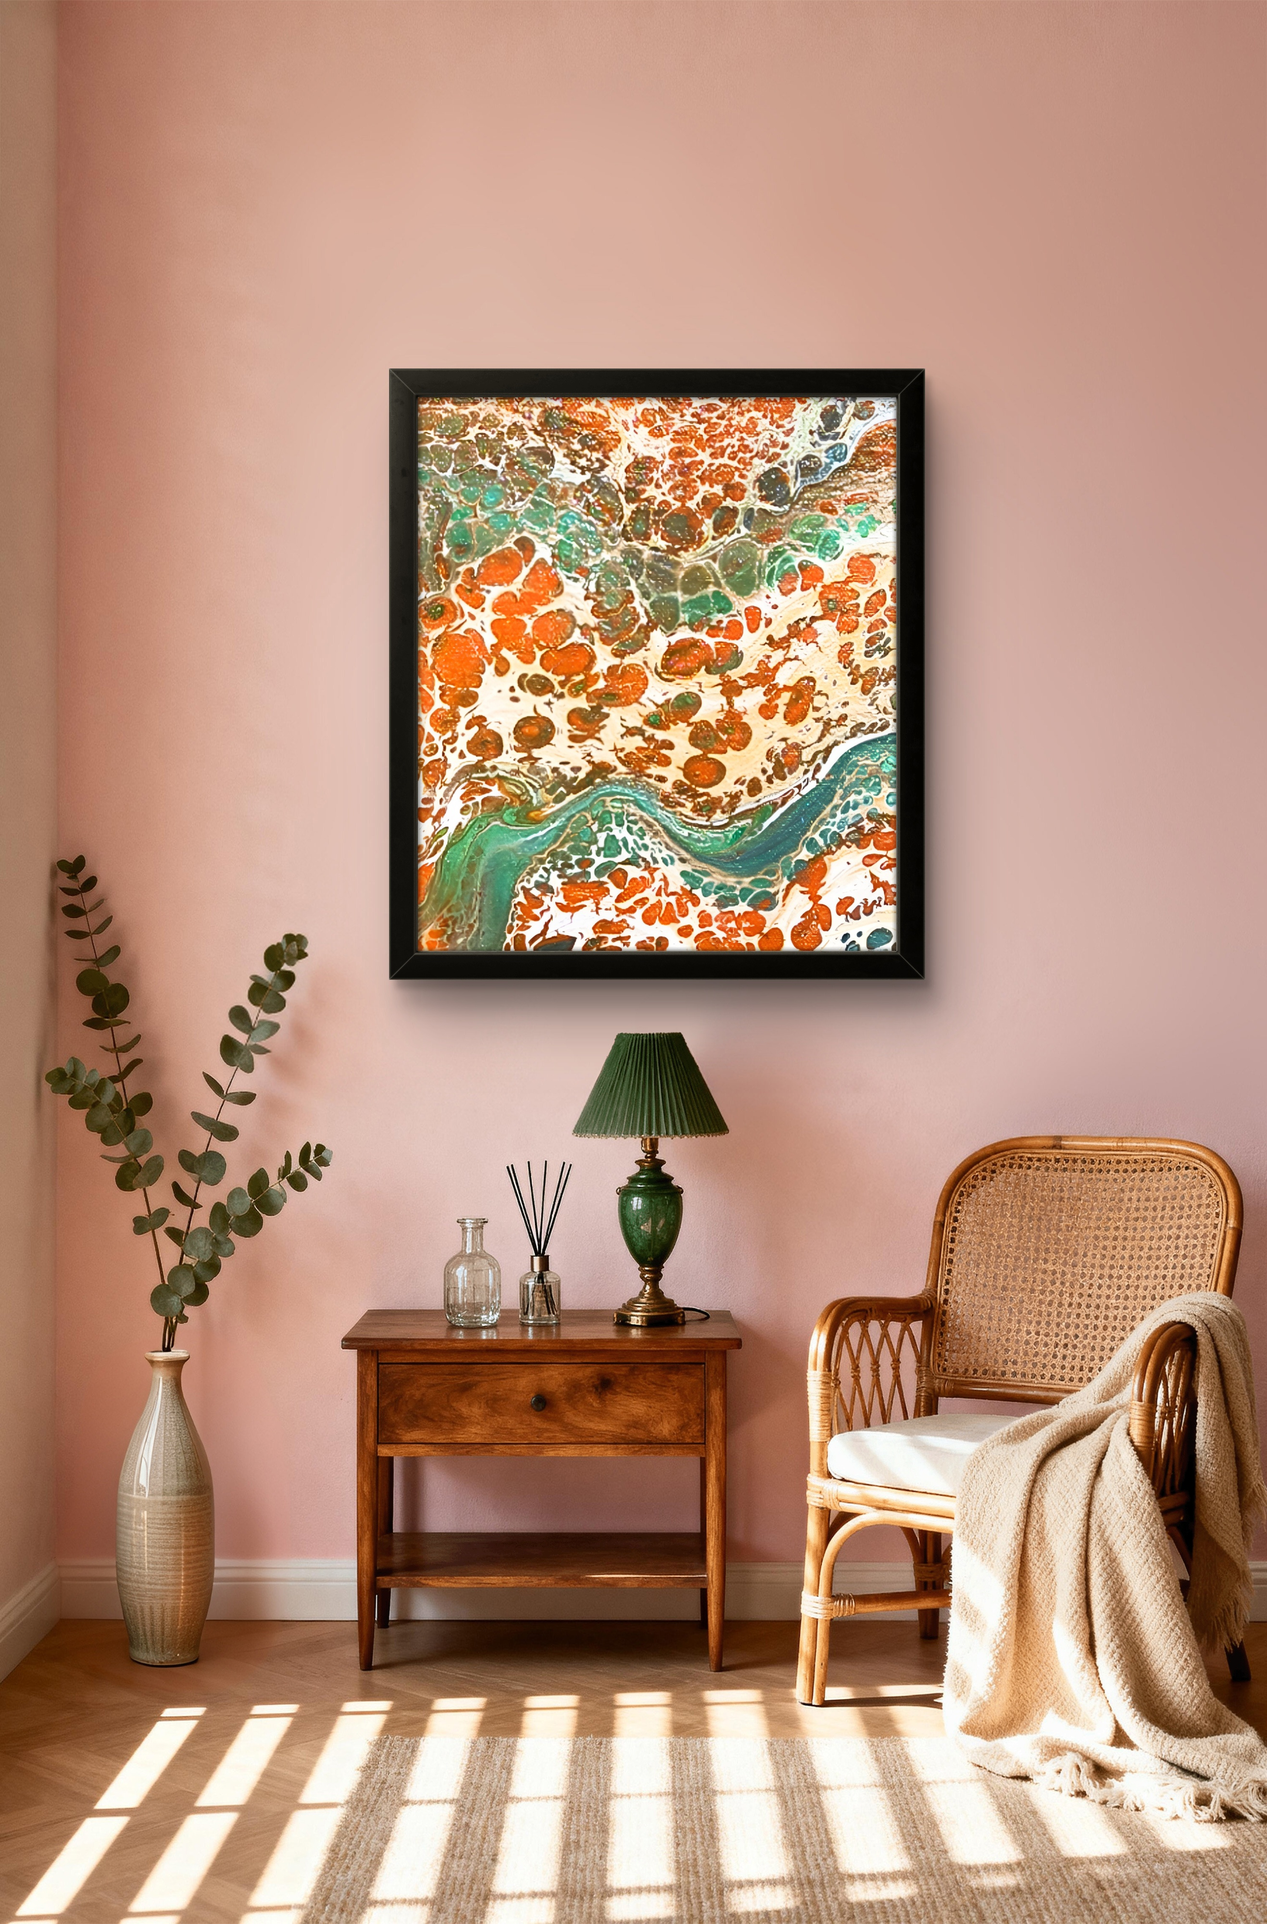
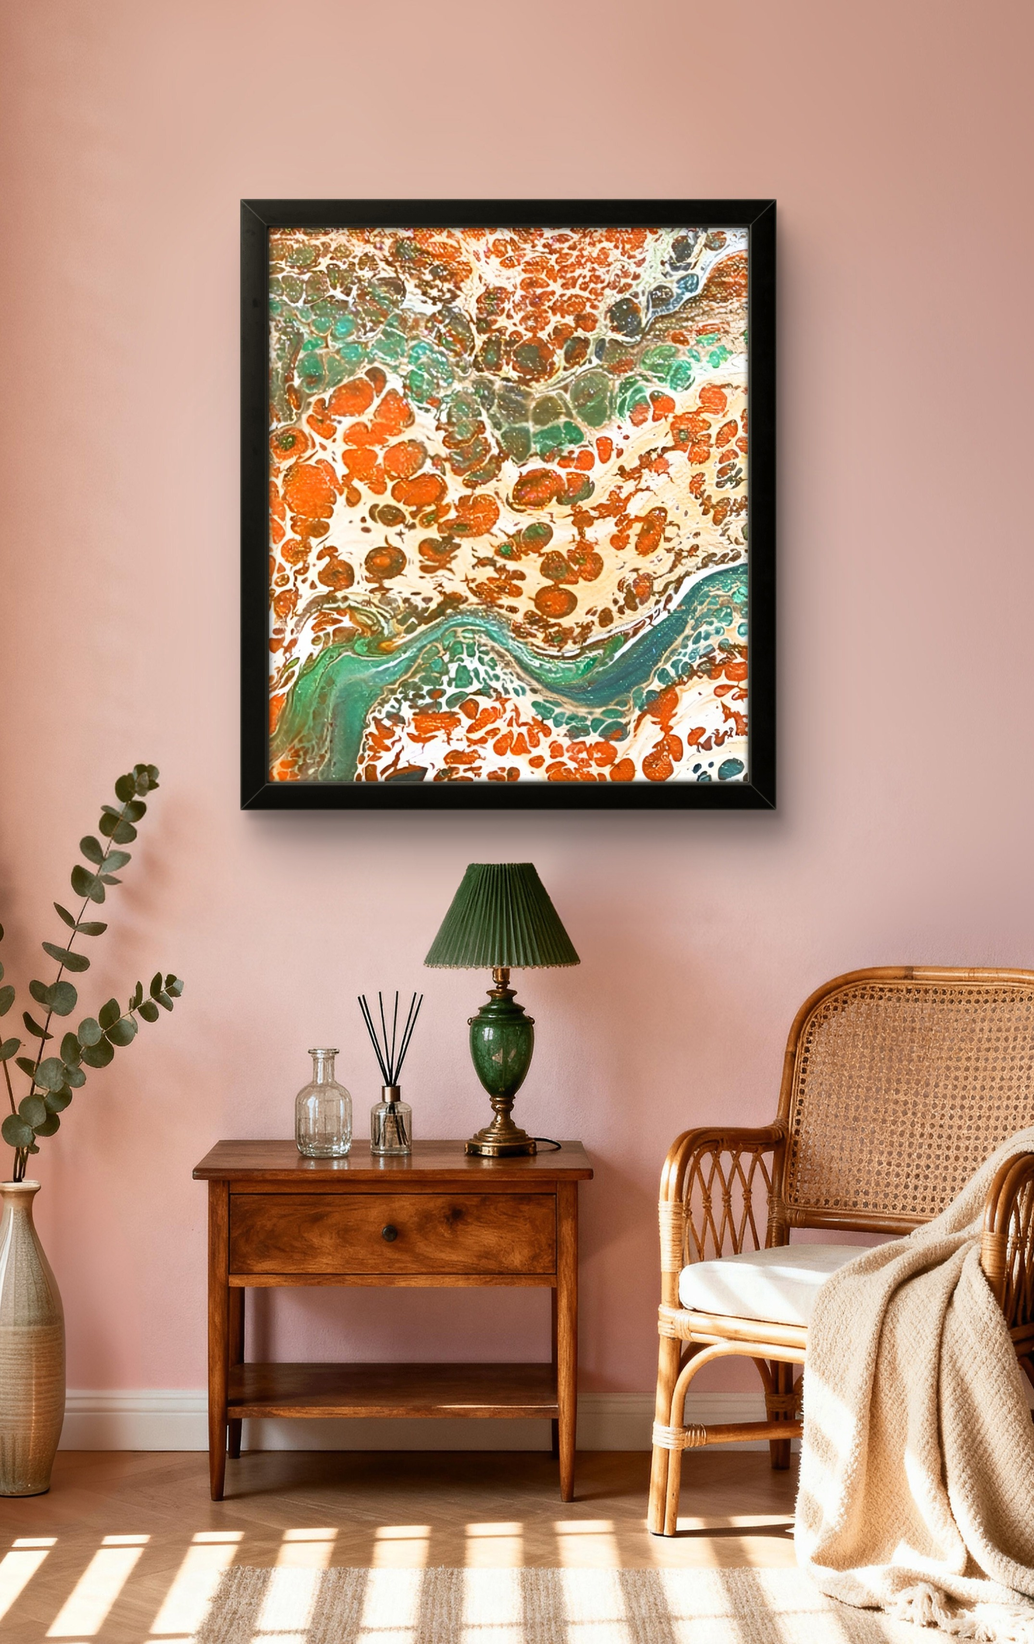
Update gallery and home mockup layouts and assets

diff --git a/gallery.html b/gallery.html
@@ -51,7 +51,7 @@
             Six curated collections of professional acrylic pour paintings, each exploring unique themes and techniques.
           </p>
           <p class="mt-1 text-sm text-white/50">
-            Click any artwork to view the mockup beside the original.
+            Click any mockup to view the original artwork.
           </p>
           <div class="mt-6">
             <a
@@ -70,19 +70,24 @@
           <!-- Signature Piece -->
           <article class="overflow-hidden rounded-2xl border border-white/10 bg-white/5">
             <div class="aspect-[3/4] w-full bg-white/5">
-              <img src="30 portfolio/Molecular Flux/Crimson Current.jpg?v=20260217" alt="Crimson Current - pour painting by Chris Broussard" class="h-full w-full object-contain lightbox cursor-pointer" data-mock="30 portfolio/mockup images/crimson current 2.jpg" style="transform: scaleX(-1) scaleY(-1) scale(0.85);" loading="lazy" />
+              <img src="30 portfolio/Molecular Flux/Crimson Current.jpg?v=20260217" alt="Crimson Current - pour painting by Chris Broussard" class="h-full w-full object-contain lightbox cursor-pointer" data-mock="30 portfolio/mockup images/crimson current 2.jpg" loading="lazy" />
             </div>
             <div class="p-4">
               <div class="text-xs font-semibold tracking-wide text-white/50">SIGNATURE PIECE</div>
               <h3 class="mt-2 text-lg font-semibold tracking-tight text-white">Crimson Current</h3>
-              <p class="mt-1 text-sm text-white/70">18"x24" • 24"x36"</p>
+              <p class="mt-1 text-sm text-white/70">customizable size</p>
             </div>
           </article>
 
           <!-- Mock Up Display -->
           <article class="lg:col-span-2 overflow-hidden rounded-2xl border border-white/10 bg-white/5">
             <div class="aspect-[4/3] w-full bg-white/5">
-              <img src="30 portfolio/mockup images/crimson current 2.jpg" alt="Gallery mockup display" class="h-full w-full object-contain lightbox cursor-pointer" loading="lazy" />
+              <img src="30 portfolio/mockup images/Amber Flow.jpg?v=20260303" alt="Amber Flow mockup display" class="h-full w-full object-contain lightbox cursor-pointer" loading="lazy" />
+            </div>
+            <div class="p-4 text-center">
+              <div class="text-xs font-semibold tracking-wide text-white/50">SIGNATURE PIECE</div>
+              <h3 class="mt-2 text-lg font-semibold tracking-tight text-white">Amber Flow</h3>
+              <p class="mt-1 text-sm text-white/70">customizable size</p>
             </div>
           </article>
         </div>
@@ -101,10 +106,10 @@
           </div>
         </div>
 
-        <div class="mt-6 grid grid-cols-1 gap-4 sm:grid-cols-2 lg:grid-cols-4">
+        <div class="mt-6 grid grid-cols-1 gap-4 sm:grid-cols-2 lg:grid-cols-3">
           <figure class="overflow-hidden rounded-2xl border border-white/10 bg-white/5">
             <div class="aspect-[4/3] w-full bg-white/5">
-              <img src="30 portfolio/Aqueous Vibrations/Abyssal Dawn.jpg?v=20260217" alt="Abyssal Dawn - pour painting by Chris Broussard" class="h-full w-full object-contain lightbox cursor-pointer" data-mock="30 portfolio/mockup images/Abyssal Dawn2.jpg" loading="lazy" />
+              <img src="30 portfolio/Aqueous Vibrations/Abyssal Dawn.jpg?v=20260217" alt="Abyssal Dawn - pour painting by Chris Broussard" class="h-full w-full object-contain lightbox cursor-pointer" data-mock="30 portfolio/mockup images/Abyssal Dawn.jpg" loading="lazy" />
             </div>
             <figcaption class="p-3">
               <h3 class="text-sm font-semibold text-white">Abyssal Dawn</h3>
@@ -155,7 +160,7 @@
           </p>
         </div>
 
-        <div class="mt-6 grid grid-cols-1 gap-4 sm:grid-cols-2 lg:grid-cols-4">
+        <div class="mt-6 grid grid-cols-1 gap-4 sm:grid-cols-2 lg:grid-cols-3">
           <figure class="overflow-hidden rounded-2xl border border-white/10 bg-white/5">
             <div class="aspect-[4/3] w-full bg-white/5">
               <img src="30 portfolio/Chromatose/Azure Ember.JPG?v=20260217" alt="Azure Ember - pour painting by Chris Broussard" class="h-full w-full object-contain lightbox cursor-pointer" data-mock="30 portfolio/mockup images/azure ember 2.jpg" loading="lazy" />
@@ -188,7 +193,7 @@
 
           <figure class="overflow-hidden rounded-2xl border border-white/10 bg-white/5">
             <div class="aspect-[4/3] w-full bg-white/5">
-              <img src="30 portfolio/Chromatose/Magenta Monsoon.JPG?v=20260217" alt="Magenta Monsoon - pour painting by Chris Broussard" class="h-full w-full object-contain lightbox cursor-pointer" data-mock="30 portfolio/mockup images/Magenta Monsoon 2.jpg" loading="lazy" />
+              <img src="30 portfolio/Chromatose/Magenta Monsoon.JPG?v=20260217" alt="Magenta Monsoon - pour painting by Chris Broussard" class="h-full w-full object-contain lightbox cursor-pointer zoomout-target" data-mock="30 portfolio/mockup images/Magenta Monsoon 2.jpg" loading="lazy" />
             </div>
             <figcaption class="p-3">
               <h3 class="text-sm font-semibold text-white">Magenta Monsoon</h3>
@@ -209,10 +214,10 @@
           </p>
         </div>
 
-        <div class="mt-6 grid grid-cols-1 gap-4 sm:grid-cols-2 lg:grid-cols-4">
+        <div class="mt-6 grid grid-cols-1 gap-4 sm:grid-cols-2 lg:grid-cols-3">
           <figure class="overflow-hidden rounded-2xl border border-white/10 bg-white/5">
             <div class="aspect-[4/3] w-full bg-white/5">
-              <img src="30 portfolio/Molecular Flux/Amethyst Abyss.JPG?v=20260217" alt="Amethyst Abyss - pour painting by Chris Broussard" class="h-full w-full object-contain lightbox cursor-pointer" data-mock="30 portfolio/mockup images/amethyst abyss 2 (2).jpg" loading="lazy" />
+              <img src="30 portfolio/Molecular Flux/Amethyst Abyss.JPG?v=20260217" alt="Amethyst Abyss - pour painting by Chris Broussard" class="h-full w-full object-contain lightbox cursor-pointer zoomout-target" data-mock="30 portfolio/mockup images/amethyst abyss 2 (2).jpg" loading="lazy" />
             </div>
             <figcaption class="p-3">
               <h3 class="text-sm font-semibold text-white">Amethyst Abyss</h3>
@@ -222,7 +227,7 @@
 
           <figure class="overflow-hidden rounded-2xl border border-white/10 bg-white/5">
             <div class="aspect-[4/3] w-full bg-white/5">
-              <img src="30 portfolio/Molecular Flux/Terracotta Tide.jpg" alt="Terracotta Tides - pour painting by Chris Broussard" class="h-full w-full object-contain lightbox cursor-pointer" data-mock="30 portfolio/mockup images/Terracotta Tide.jpg" loading="lazy" />
+              <img src="30 portfolio/Molecular Flux/Terracotta Tide.jpg" alt="Terracotta Tides - pour painting by Chris Broussard" class="h-full w-full object-contain lightbox cursor-pointer zoomout-target" data-mock="30 portfolio/mockup images/Terracotta Tide.jpg" loading="lazy" />
             </div>
             <figcaption class="p-3">
               <h3 class="text-sm font-semibold text-white">Terracotta Tides</h3>
@@ -232,7 +237,7 @@
 
           <figure class="overflow-hidden rounded-2xl border border-white/10 bg-white/5">
             <div class="aspect-[4/3] w-full bg-white/5">
-              <img src="30 portfolio/Molecular Flux/Leviathans Armor.JPG?v=20260217" alt="Leviathan's Armor - pour painting by Chris Broussard" class="h-full w-full object-contain lightbox cursor-pointer" data-mock="30 portfolio/mockup images/Leviathans armor 2.jpg" loading="lazy" />
+              <img src="30 portfolio/Molecular Flux/Leviathans Armor.JPG?v=20260217" alt="Leviathan's Armor - pour painting by Chris Broussard" class="h-full w-full object-contain lightbox cursor-pointer zoomout-target" data-mock="30 portfolio/mockup images/Leviathans armor 2.jpg" loading="lazy" />
             </div>
             <figcaption class="p-3">
               <h3 class="text-sm font-semibold text-white">Leviathan's Armor</h3>
@@ -242,7 +247,7 @@
 
           <figure class="overflow-hidden rounded-2xl border border-white/10 bg-white/5">
             <div class="aspect-[4/3] w-full bg-white/5">
-              <img src="30 portfolio/Molecular Flux/Crimson Current.jpg?v=20260217" alt="Crimson Current - pour painting by Chris Broussard" class="h-full w-full object-contain lightbox cursor-pointer" data-mock="30 portfolio/mockup images/crimson current 2.jpg" loading="lazy" />
+              <img src="30 portfolio/Molecular Flux/Crimson Current.jpg?v=20260217" alt="Crimson Current - pour painting by Chris Broussard" class="h-full w-full object-contain lightbox cursor-pointer zoomout-target" data-mock="30 portfolio/mockup images/crimson current 2.jpg" loading="lazy" />
             </div>
             <figcaption class="p-3">
               <h3 class="text-sm font-semibold text-white">Crimson Current</h3>
@@ -263,10 +268,10 @@
           </p>
         </div>
 
-        <div class="mt-6 grid grid-cols-1 gap-4 sm:grid-cols-2 lg:grid-cols-4">
+        <div class="mt-6 grid grid-cols-1 gap-4 sm:grid-cols-2 lg:grid-cols-3">
           <figure class="overflow-hidden rounded-2xl border border-white/10 bg-white/5">
             <div class="aspect-[4/3] w-full bg-white/5">
-              <img src="30 portfolio/Chromatose/Magma Monsoon.JPG?v=20260302" alt="Magma Monsoon - pour painting by Chris Broussard" class="h-full w-full object-contain lightbox cursor-pointer" data-mock="30 portfolio/mockup images/Magma Monsoon.jpg" loading="lazy" />
+              <img src="30 portfolio/Chromatose/Magma Monsoon.JPG?v=20260302" alt="Magma Monsoon - pour painting by Chris Broussard" class="h-full w-full object-contain lightbox cursor-pointer zoomout-target" data-mock="30 portfolio/mockup images/Magma Monsoon.jpg" loading="lazy" />
             </div>
             <figcaption class="p-3">
               <h3 class="text-sm font-semibold text-white">Magma Monsoon</h3>
@@ -276,7 +281,7 @@
 
           <figure class="overflow-hidden rounded-2xl border border-white/10 bg-white/5">
             <div class="aspect-[4/3] w-full bg-white/5">
-              <img src="30 portfolio/The Elemental Flux/Desert Veins.JPG" alt="Desert Veins - pour painting by Chris Broussard" class="h-full w-full object-contain lightbox cursor-pointer" data-mock="30 portfolio/mockup images/799.jpg" loading="lazy" />
+              <img src="30 portfolio/The Elemental Flux/Desert Veins.JPG" alt="Desert Veins - pour painting by Chris Broussard" class="h-full w-full object-contain lightbox cursor-pointer zoomout-target" data-mock="30 portfolio/mockup images/799.jpg" loading="lazy" />
             </div>
             <figcaption class="p-3">
               <h3 class="text-sm font-semibold text-white">Desert Veins</h3>
@@ -294,7 +299,7 @@
 
           <figure class="overflow-hidden rounded-2xl border border-white/10 bg-white/5">
             <div class="aspect-[4/3] w-full bg-white/5">
-              <img src="30 portfolio/The Elemental Flux/Solar Echoes.jpeg?v=20260302" alt="Solar Echos - pour painting by Chris Broussard" class="h-full w-full object-contain lightbox cursor-pointer" data-mock="30 portfolio/mockup images/Solar Echos MU.jpg" loading="lazy" />
+              <img src="30 portfolio/The Elemental Flux/Solar Echoes.jpeg?v=20260302" alt="Solar Echos - pour painting by Chris Broussard" class="h-full w-full object-contain lightbox cursor-pointer zoomout-target" data-mock="30 portfolio/mockup images/Solar Echos MU.jpg" loading="lazy" />
             </div>
             <figcaption class="p-3">
               <h3 class="text-sm font-semibold text-white">Solar Echos</h3>
@@ -312,7 +317,7 @@
 
           <figure class="overflow-hidden rounded-2xl border border-white/10 bg-white/5">
             <div class="aspect-[4/3] w-full bg-white/5">
-              <img src="30 portfolio/The Elemental Flux/sunlit Stillness with Dragon Fruit.jpg" alt="Sunlit Stillness with Dragon Fruit - pour painting by Chris Broussard" class="h-full w-full object-contain lightbox cursor-pointer" data-mock="30 portfolio/mockup images/sunlit stillness.jpg" loading="lazy" />
+              <img src="30 portfolio/The Elemental Flux/sunlit Stillness with Dragon Fruit.jpg" alt="Sunlit Stillness with Dragon Fruit - pour painting by Chris Broussard" class="h-full w-full object-contain lightbox cursor-pointer zoomout-target" data-mock="30 portfolio/mockup images/sunlit stillness.jpg" loading="lazy" />
             </div>
             <figcaption class="p-3">
               <h3 class="text-sm font-semibold text-white">Sunlit Stillness with Dragon Fruit</h3>
@@ -341,7 +346,7 @@
           </p>
         </div>
 
-        <div class="mt-6 grid grid-cols-1 gap-4 sm:grid-cols-2 lg:grid-cols-4">
+        <div class="mt-6 grid grid-cols-1 gap-4 sm:grid-cols-2 lg:grid-cols-3">
           <figure class="overflow-hidden rounded-2xl border border-white/10 bg-white/5">
             <div class="aspect-[4/3] w-full bg-white/5">
               <img src="30 portfolio/Radiant Expansions/Bloomquake . - Copy.JPG" alt="Bloomquake - pour painting by Chris Broussard" class="h-full w-full object-contain lightbox cursor-pointer" data-mock="30 portfolio/mockup images/Bloomquake 2.jpg" loading="lazy" />
@@ -354,7 +359,7 @@
 
           <figure class="overflow-hidden rounded-2xl border border-white/10 bg-white/5">
             <div class="aspect-[4/3] w-full bg-white/5">
-              <img src="30 portfolio/Radiant Expansions/Vivid Pedals.jpg" alt="Vivid Pedals - pour painting by Chris Broussard" class="h-full w-full object-contain lightbox cursor-pointer" data-mock="30 portfolio/mockup images/Vivid Pedals 2.jpg" loading="lazy" />
+              <img src="30 portfolio/Radiant Expansions/Vivid Pedals.jpg" alt="Vivid Pedals - pour painting by Chris Broussard" class="h-full w-full object-contain lightbox cursor-pointer vivid-pedals-zoom" data-mock="30 portfolio/mockup images/Vivid Pedals 2.jpg" loading="lazy" />
             </div>
             <figcaption class="p-3">
               <h3 class="text-sm font-semibold text-white">Vivid Pedals</h3>
@@ -503,6 +508,20 @@
     </div>
 
     <style>
+      .mockup-thumb {
+        object-fit: contain !important;
+        transform: scale(1);
+        transform-origin: center;
+      }
+
+      .mockup-thumb.zoomout-target {
+        transform: scale(1);
+      }
+
+      .mockup-thumb.vivid-pedals-zoom {
+        transform: scale(1.06);
+      }
+
       #lightbox-mock {
         border: 2px solid #ffff00 !important;
         background-color: rgba(0, 0, 0, 0.2) !important;
@@ -659,18 +678,31 @@
         lightboxMock.alt = '';
       }
 
+      function addCacheBuster(path) {
+        const separator = path.includes('?') ? '&' : '?';
+        return `${path}${separator}v=${new Date().getTime()}`;
+      }
+
+      document.querySelectorAll('img.lightbox[data-mock]').forEach(img => {
+        const originalArtSrc = img.getAttribute('src');
+        const mockSrc = img.getAttribute('data-mock');
+        if (!originalArtSrc || !mockSrc) return;
+
+        img.setAttribute('data-art', originalArtSrc);
+        img.setAttribute('src', addCacheBuster(encodeURI(mockSrc)));
+        img.classList.add('mockup-thumb');
+      });
+
       document.querySelectorAll('img.lightbox').forEach(img => {
-        // Skip mock images themselves
-        if (!img.src.includes('mockup images')) {
-          img.addEventListener('click', () => {
-            let mockImage = img.getAttribute('data-mock') || '30 portfolio/mockup images/mock 5.jpg';
-            const artworkTitle = img.alt || '';
-            if (artworkTitle.includes('Luminous Lagoon')) {
-              mockImage = '30 portfolio/mockup images/luminous lagoon 2.jpg';
-            }
-            openLightbox(img.src, img.alt, mockImage);
-          });
-        }
+        img.addEventListener('click', () => {
+          const artworkImage = img.getAttribute('data-art') || img.src;
+          let mockImage = img.getAttribute('data-mock') || img.src;
+          const artworkTitle = img.alt || '';
+          if (artworkTitle.includes('Luminous Lagoon')) {
+            mockImage = '30 portfolio/mockup images/luminous lagoon 2.jpg';
+          }
+          openLightbox(artworkImage, img.alt, mockImage);
+        });
       });
 
       closeBtn.addEventListener('click', closeLightbox);

diff --git a/index.html b/index.html
@@ -88,7 +88,7 @@
       </section>
 
       <section class="mx-auto max-w-6xl px-4 pb-12 sm:px-6">
-        <div class="grid grid-cols-1 gap-4 sm:grid-cols-2 lg:grid-cols-4">
+        <div class="grid grid-cols-1 gap-4 sm:grid-cols-2 lg:grid-cols-3">
           <figure class="overflow-hidden rounded-2xl border border-white/10 bg-white/5">
             <div class="aspect-[4/3] w-full bg-white/5">
               <img src="30 portfolio/mockup images/baefed30-07bf-11f1-a0b0-6577dcc1f784.jpg?v=20260217a" alt="Mockup 1" class="h-full w-full object-contain" loading="lazy" />
@@ -122,11 +122,11 @@
             A curated selection of recent work.
           </p>
           <p class="mt-1 text-xs text-white/50">
-            Click any artwork to see the mockup view.
+            Click any mockup to see the original artwork.
           </p>
         </div>
 
-        <div id="gallery" class="mt-6 grid grid-cols-1 gap-4 sm:grid-cols-2 lg:grid-cols-4">
+        <div id="gallery" class="mt-6 grid grid-cols-1 gap-4 sm:grid-cols-2 lg:grid-cols-3">
           <figure class="overflow-hidden rounded-2xl border border-white/10 bg-white/5">
             <div class="aspect-[4/3] w-full bg-white/5">
               <img src="30 portfolio/Molecular Flux/Kinetic Flow.JPG?v=20260217b" alt="Kinetic Flow - Acrylic painting by Chris Broussard" class="h-full w-full object-contain lightbox cursor-pointer" data-mock="30 portfolio/mockup images/Kinetic Flow 2.jpg" loading="lazy" />
@@ -217,7 +217,7 @@
 
           <figure class="overflow-hidden rounded-2xl border border-white/10 bg-white/5">
             <div class="aspect-[4/3] w-full bg-white/5">
-              <img src="30 portfolio/Aqueous Vibrations/Abyssal Dawn.jpg?v=20260217a" alt="Abyssal Dawn - Acrylic painting by Chris Broussard" class="h-full w-full object-contain lightbox cursor-pointer" data-mock="30 portfolio/mockup images/Abyssal Dawn2.jpg" loading="lazy" />
+              <img src="30 portfolio/Aqueous Vibrations/Abyssal Dawn.jpg?v=20260217a" alt="Abyssal Dawn - Acrylic painting by Chris Broussard" class="h-full w-full object-contain lightbox cursor-pointer" data-mock="30 portfolio/mockup images/Abyssal Dawn.jpg" loading="lazy" />
             </div>
             <figcaption class="p-4">
               <h4 class="text-sm font-semibold text-white">Abyssal Dawn</h4>
@@ -519,18 +519,26 @@
         lightboxMock.alt = '';
       }
 
+      function addCacheBuster(path) {
+        const separator = path.includes('?') ? '&' : '?';
+        return `${path}${separator}v=${new Date().getTime()}`;
+      }
+
+      document.querySelectorAll('img.lightbox[data-mock]').forEach(img => {
+        const originalArtSrc = img.getAttribute('src');
+        const mockSrc = img.getAttribute('data-mock');
+        if (!originalArtSrc || !mockSrc) return;
+
+        img.setAttribute('data-art', originalArtSrc);
+        img.setAttribute('src', addCacheBuster(encodeURI(mockSrc)));
+      });
+
       document.querySelectorAll('img.lightbox').forEach(img => {
-        // Skip mock images themselves
-        if (!img.src.includes('mockup images')) {
-          img.addEventListener('click', () => {
-            let mockImage = img.getAttribute('data-mock') || '30 portfolio/mockup images/mock 5.jpg';
-            const artworkTitle = img.alt || '';
-            if (artworkTitle.includes('Solar Bloom')) {
-              mockImage = '30 portfolio/mockup images/Solar Bloom 2.jpg';
-            }
-            openLightbox(img.src, img.alt, mockImage);
-          });
-        }
+        img.addEventListener('click', () => {
+          const artworkImage = img.getAttribute('data-art') || img.src;
+          const mockImage = img.getAttribute('data-mock') || '30 portfolio/mockup images/mock 5.jpg';
+          openLightbox(artworkImage, img.alt, mockImage);
+        });
       });
 
       closeBtn.addEventListener('click', closeLightbox);

diff --git a/public/art-portfolio/home.html b/public/art-portfolio/home.html
@@ -111,7 +111,7 @@
         </article>
 
         <!-- 8 Selected Slots -->
-        <div id="gallery" class="mt-6 grid grid-cols-1 gap-4 sm:grid-cols-2 lg:grid-cols-4">
+        <div id="gallery" class="mt-6 grid grid-cols-1 gap-4 sm:grid-cols-2 lg:grid-cols-3">
           <!-- Slot 1 -->
           <figure class="overflow-hidden rounded-2xl border border-white/10 bg-white/5">
             <div class="aspect-[4/3] w-full bg-white/5">
@@ -400,10 +400,25 @@
         lightboxMock.alt = '';
       }
 
+      function addCacheBuster(path) {
+        const separator = path.includes('?') ? '&' : '?';
+        return `${path}${separator}v=${new Date().getTime()}`;
+      }
+
+      document.querySelectorAll('img.lightbox[data-mock]').forEach(img => {
+        const originalArtSrc = img.getAttribute('src');
+        const mockSrc = img.getAttribute('data-mock');
+        if (!originalArtSrc || !mockSrc) return;
+
+        img.setAttribute('data-art', originalArtSrc);
+        img.setAttribute('src', addCacheBuster(encodeURI(mockSrc)));
+      });
+
       document.querySelectorAll('img.lightbox').forEach(img => {
         img.addEventListener('click', () => {
+          const artworkImage = img.getAttribute('data-art') || img.src;
           const mockImage = img.getAttribute('data-mock') || '';
-          openLightbox(img.src, img.alt, mockImage);
+          openLightbox(artworkImage, img.alt, mockImage);
         });
       });
 
